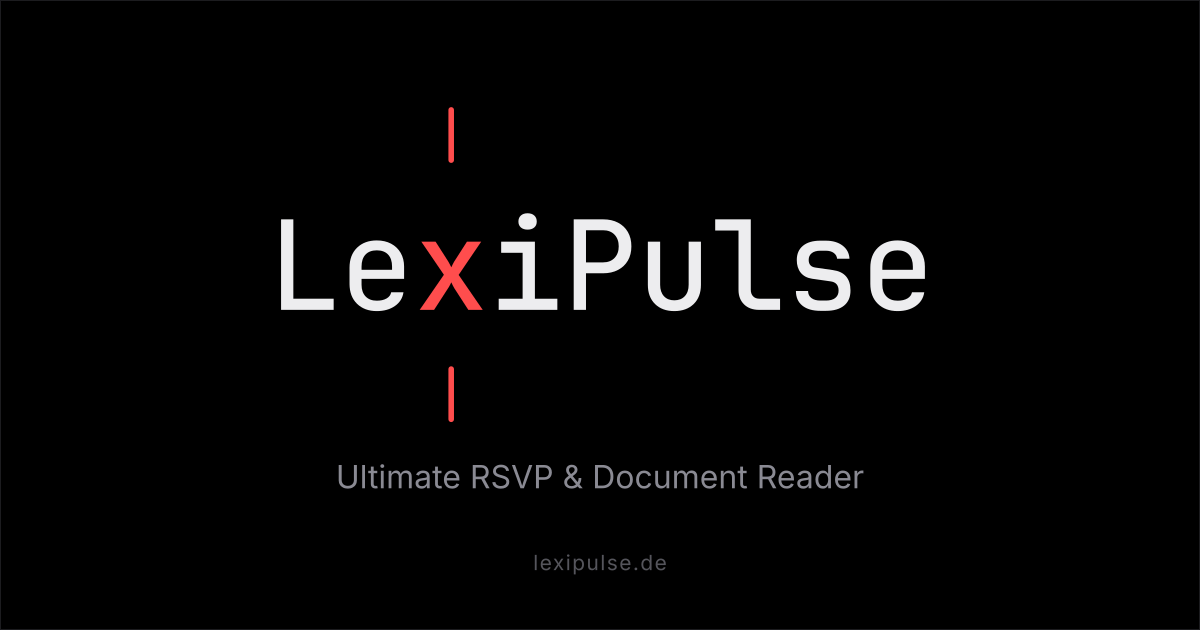
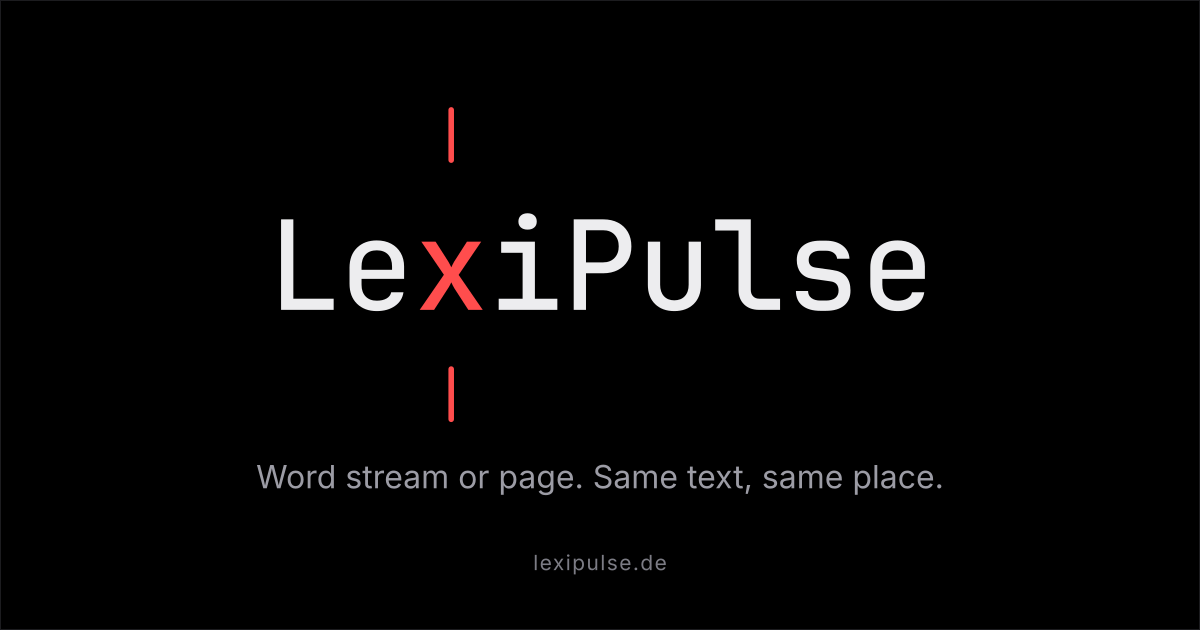
Store-Texte und Roadmap auf den neuen Umfang
Beschreibung und Versionshinweise nennen jetzt FictionBook, die
Wortuebersicht, den Markdown-Export der Markierungen und das Tagesziel. Alle
Zeichengrenzen eingehalten, deutsche Beschreibung bei 3985 von 4000.

Roadmap: 4.5 und 4.6 sind nicht mehr "bewusst nicht", sondern gebaut, nur ohne
eingebautes Woerterbuch. Die alte Zeile fuehrte FB2 weiter unter "bewusst
nicht", obwohl es jetzt gelesen wird; MOBI und AZW3 bleiben draussen, weil
Amazon heute KFX mit DRM ausliefert und ein Format zu behaupten, das bei den
meisten echten Dateien fehlschlaegt, schlechter waere als es zu lassen.

Changed region(s): [[0.2158, 0.7238, 0.8017, 0.7841], [0.4317, 0.8746, 0.555, 0.9048]]

diff --git a/docs/ROADMAP_READER.md b/docs/ROADMAP_READER.md
@@ -1,6 +1,6 @@
 # Der vollständige Plan: LexiPulse als Reader
 
-Stand: 2026-08-17. Grundlage ist `MARKTANALYSE_2026-08-16.md`.
+Stand: 2026-08-17 (zweite Runde). Grundlage ist `MARKTANALYSE_2026-08-16.md`.
 Status: **fertig** · **in Arbeit** · **offen** · **bewusst nicht**
 
 Die Reihenfolge folgt Abhängigkeiten, nicht Wunschdenken. Jede Stufe wird am
@@ -31,6 +31,9 @@ Gerät geprüft, bevor die nächste beginnt.
 | 2.6 | Markierungen im Export enthalten | **fertig** |
 | 2.7 | Auto-Scroll mit Geschwindigkeit | **fertig** |
 | 2.8 | Blättern mit Seitenzahlen | **fertig** |
+| 2.9 | FictionBook (.fb2) importieren | **fertig** |
+| 2.10 | Markierungen als Markdown ausgeben | **fertig** |
+| 2.11 | Tagesziel in Wörtern | **fertig** |
 
 ## Stufe 3 — Der Unterschied zum Rest des Marktes
 
@@ -53,8 +56,8 @@ zusammen.
 | 4.2 | Sortieren: zuletzt, Titel, hinzugefügt, Fortschritt | **fertig** |
 | 4.3 | Filtern: alle, angefangen, ungelesen, gelesen | **fertig** |
 | 4.4 | Sammlungen und Tags | **fertig** |
-| 4.5 | Wörterbuch beim Antippen eines Wortes | **bewusst nicht** |
-| 4.6 | Übersetzung der Auswahl | **bewusst nicht** |
+| 4.5 | Nachschlagen eines Wortes | **fertig**, ohne eingebautes Wörterbuch |
+| 4.6 | Übersetzung der Auswahl | **fertig** über die Übergabe ans Betriebssystem |
 
 ## Stufe 5 — Web-App auf gleichem Stand
 
@@ -64,11 +67,14 @@ zusammen.
 | 5.2 | Typografie, Bionic, Farbfilter | **fertig** |
 | 5.3 | Suche | **fertig** |
 | 5.4 | Markierungen | **fertig** |
+| 5.5 | Leselineal, Auto-Scroll, Blättern, Schlagwörter | **fertig** |
 
-Was die Web-Fassung **nicht** hat: Blättern mit Seitenzahl, Leselineal,
-Auto-Scroll und Schlagwörter. Das ist Absicht und keine Lücke im Versprechen:
-Die Store-Texte beschreiben die App, und die kostenlose Web-Fassung wird dort
-nur als zusätzliche Möglichkeit genannt, nicht als gleichwertig.
+Die Web-Fassung ist damit auf dem Stand der App. Das Blättern löst sie über
+CSS-Spalten statt über gemessene Zeilenkästen, weil der Browser den Umbruch
+selbst beherrscht; die Seitenzahl ergibt sich aus `scrollWidth / clientWidth`.
+Nicht nachgebaut ist das Nachschlagen: Die Übergabe an eine App der eigenen
+Wahl ist eine Betriebssystem-Sache und hat im Browser keine Entsprechung, die
+diesen Namen verdient.
 
 ---
 
@@ -81,19 +87,19 @@ Nicht aus Bequemlichkeit weggelassen, sondern weil es dem Produkt schadet:
   Über-Bereich der App steht. Ließe sich nur mit neuen Rechtstexten und einer
   neuen Datenschutz-Erklärung im Store einführen.
 - **Konto und Geräte-Sync.** Dasselbe, plus: Die App hat bewusst keine Anmeldung.
-- **Formate MOBI, AZW3, FB2.** Proprietär beziehungsweise DRM-behaftet; der
-  Aufwand steht in keinem Verhältnis zur Nachfrage bei einem Schnellleser.
 - **CBZ/CBR (Comics).** RSVP ergibt bei Bildern keinen Sinn.
 - **Plugin-System wie KOReader.** Ein Wartungsversprechen, das eine App mit einem
   Entwickler nicht halten kann.
-- **Wörterbuch und Übersetzung (4.5, 4.6).** Die Datenschutzerklärung zählt
-  abschließend auf, welche einzige Funktion überhaupt einen Server kontaktiert:
-  der Import eines Web-Artikels. Eine Nachschlage- oder Übersetzungsfunktion
-  würde diese Aussage falsch machen — in `privacy.en.md`, in
-  `datenschutz.de.md` und in beiden Store-Einträgen. Ein Wörterbuch offline
-  mitzuliefern scheitert an Größe und Lizenz, das Betriebssystem bietet
-  plattformübergreifend keine brauchbare Schnittstelle. Wird nur gebaut, wenn
-  die Rechtstexte vorher geändert und neu eingereicht werden.
+- **Ein eingebautes Wörterbuch.** Ein Nachschlagewerk offline mitzuliefern
+  scheitert an Größe und Lizenz, und eines online abzufragen würde die Zusage
+  brechen, dass die App selbst nichts sendet. Gebaut ist stattdessen die
+  Wortübersicht (offline, aus dem Dokument selbst) plus eine ausdrückliche
+  Übergabe an eine App der eigenen Wahl. Abschnitt 7 der Datenschutzerklärung
+  sagt das, und der Eintrag in der App sagt es auch.
+- **MOBI und AZW3.** Was Amazon heute ausliefert, ist KFX mit DRM; das zu
+  öffnen wäre eine Umgehung technischer Schutzmaßnahmen. Bliebe die Handvoll
+  alter DRM-freier Dateien, und „MOBI wird unterstützt“ zu behaupten, obwohl es
+  bei den meisten echten Dateien fehlschlägt, wäre schlechter als es zu lassen.
 
 ## Was zuletzt entschieden wird
 
